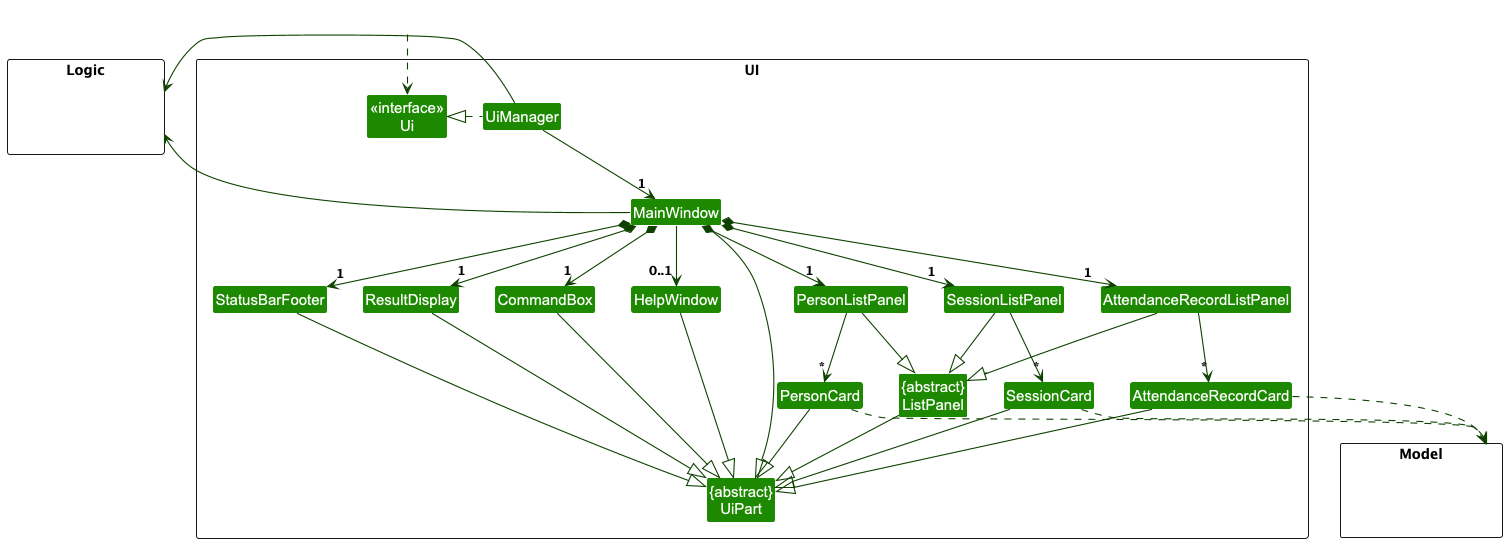
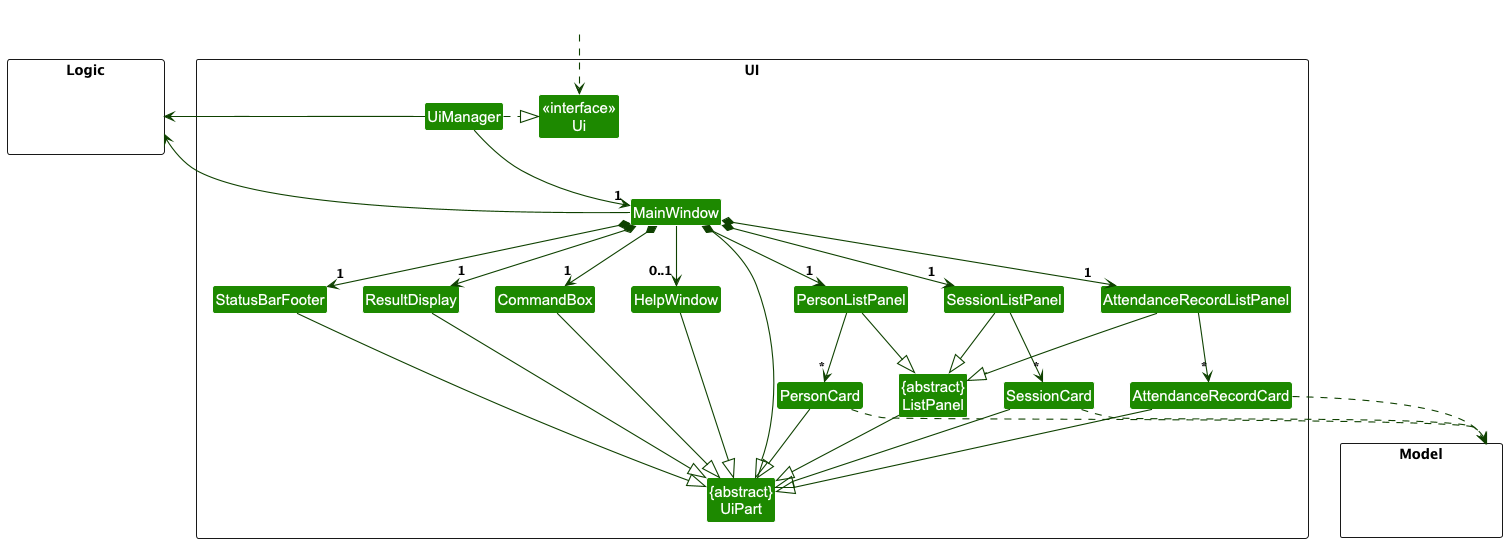
Update Architecture and UI in Developer Guide

Changed region(s): [[0.2183, 0.1473, 0.4366, 0.2652], [0.1248, 0.0589, 0.3119, 0.0884], [0.4054, 0.3241, 0.4366, 0.3831]]

diff --git a/docs/DeveloperGuide.md b/docs/DeveloperGuide.md
@@ -51,7 +51,7 @@ The bulk of the app's work is done by the following four components:
 
 **How the architecture components interact with each other**
 
-The *Sequence Diagram* below shows how the components interact with each other for the scenario where the user issues the command `delete 1`.
+The *Sequence Diagram* below shows how the components interact with each other for the scenario where the user issues the command `student delete 1`.
 
 <img src="images/ArchitectureSequenceDiagram.png" width="574" />
 
@@ -72,7 +72,7 @@ The **API** of this component is specified in [`Ui.java`](https://github.com/AY2
 
 ![Structure of the UI Component](images/UiClassDiagram.png)
 
-The UI consists of a `MainWindow` that is made up of parts e.g.`CommandBox`, `ResultDisplay`, `PersonListPanel`, `StatusBarFooter` etc. All these, including the `MainWindow`, inherit from the abstract `UiPart` class which captures the commonalities between classes that represent parts of the visible GUI.
+The UI consists of a `MainWindow` that is made up of parts e.g.`CommandBox`, `ResultDisplay`, `PersonListPanel`, `StatusBarFooter` etc. The classes `PersonListPanel`, `SessionListPanel`, and `AttendanceRecordListPanel` inherit from the abstract `ListPanel` class which captures the commonalities of a panel in the GUI that displays a list of items. Each item in the list is represented as a card (e.g. `SessionCard`). All these, including the `MainWindow` and `ListPanel`, inherit from the abstract `UiPart` class which captures the commonalities between classes that represent parts of the visible GUI.
 
 The `UI` component uses the JavaFx UI framework. The layout of these UI parts are defined in matching `.fxml` files that are in the `src/main/resources/view` folder. For example, the layout of the [`MainWindow`](https://github.com/AY2425S2-CS2103T-T17-3/tp/tree/master/src/main/java/tutorly/ui/MainWindow.java) is specified in [`MainWindow.fxml`](https://github.com/AY2425S2-CS2103T-T17-3/tp/tree/master/src/main/resources/view/MainWindow.fxml)
 
@@ -81,7 +81,7 @@ The `UI` component,
 * executes user commands using the `Logic` component.
 * listens for changes to `Model` data so that the UI can be updated with the modified data.
 * keeps a reference to the `Logic` component, because the `UI` relies on the `Logic` to execute commands.
-* depends on some classes in the `Model` component, as it displays `Person` object residing in the `Model`.
+* depends on some classes in the `Model` component, as it displays `Person`, `Session`, and `AttendanceRecord` objects residing in the `Model`.
 
 ### Logic component
 
